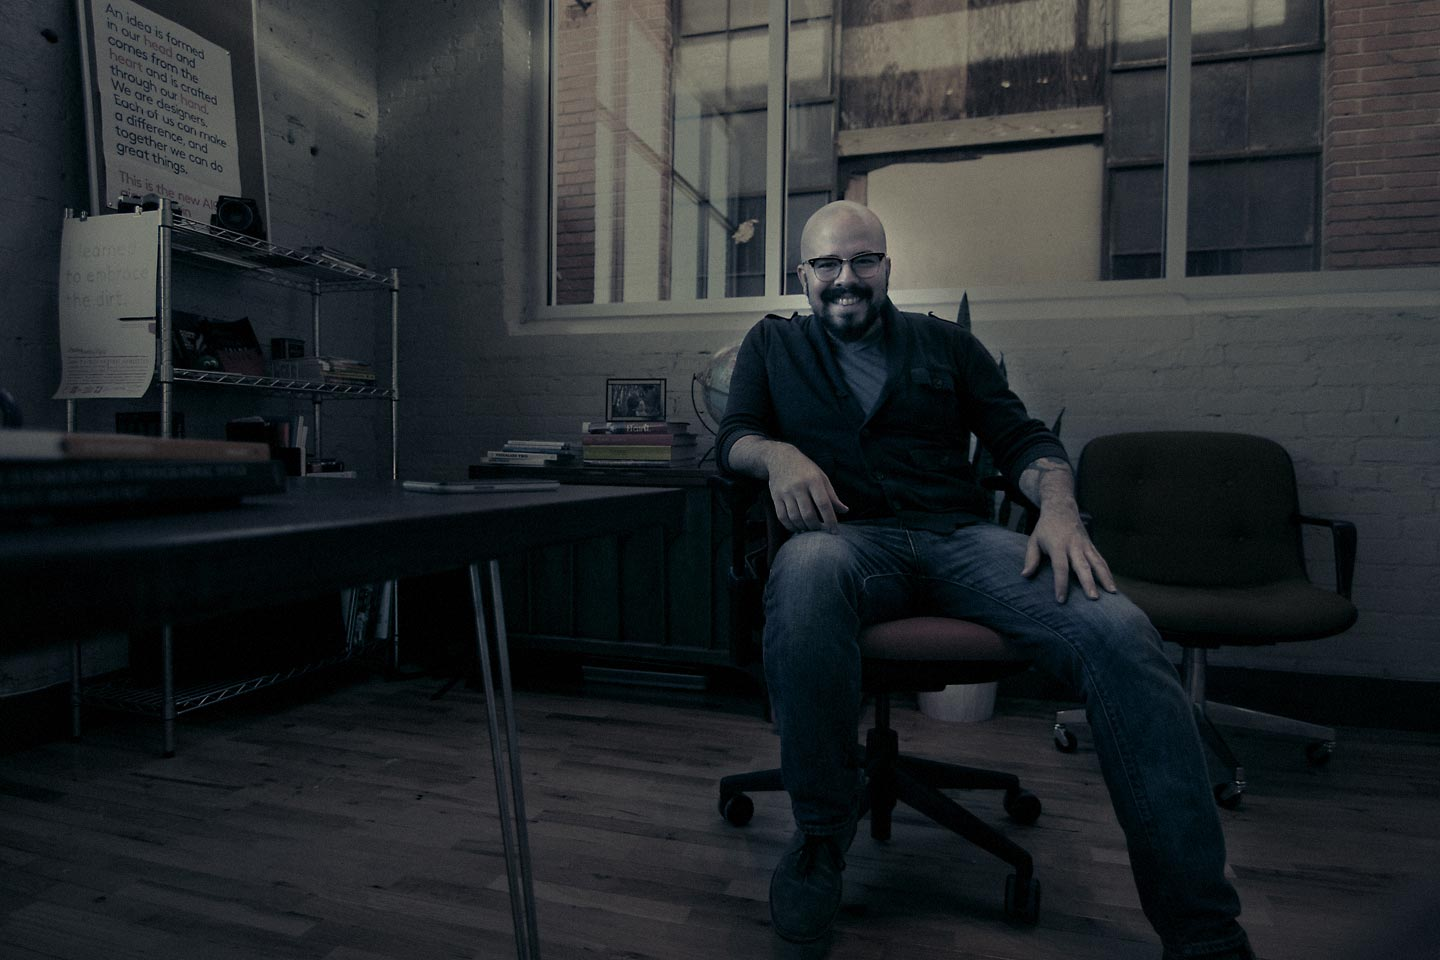
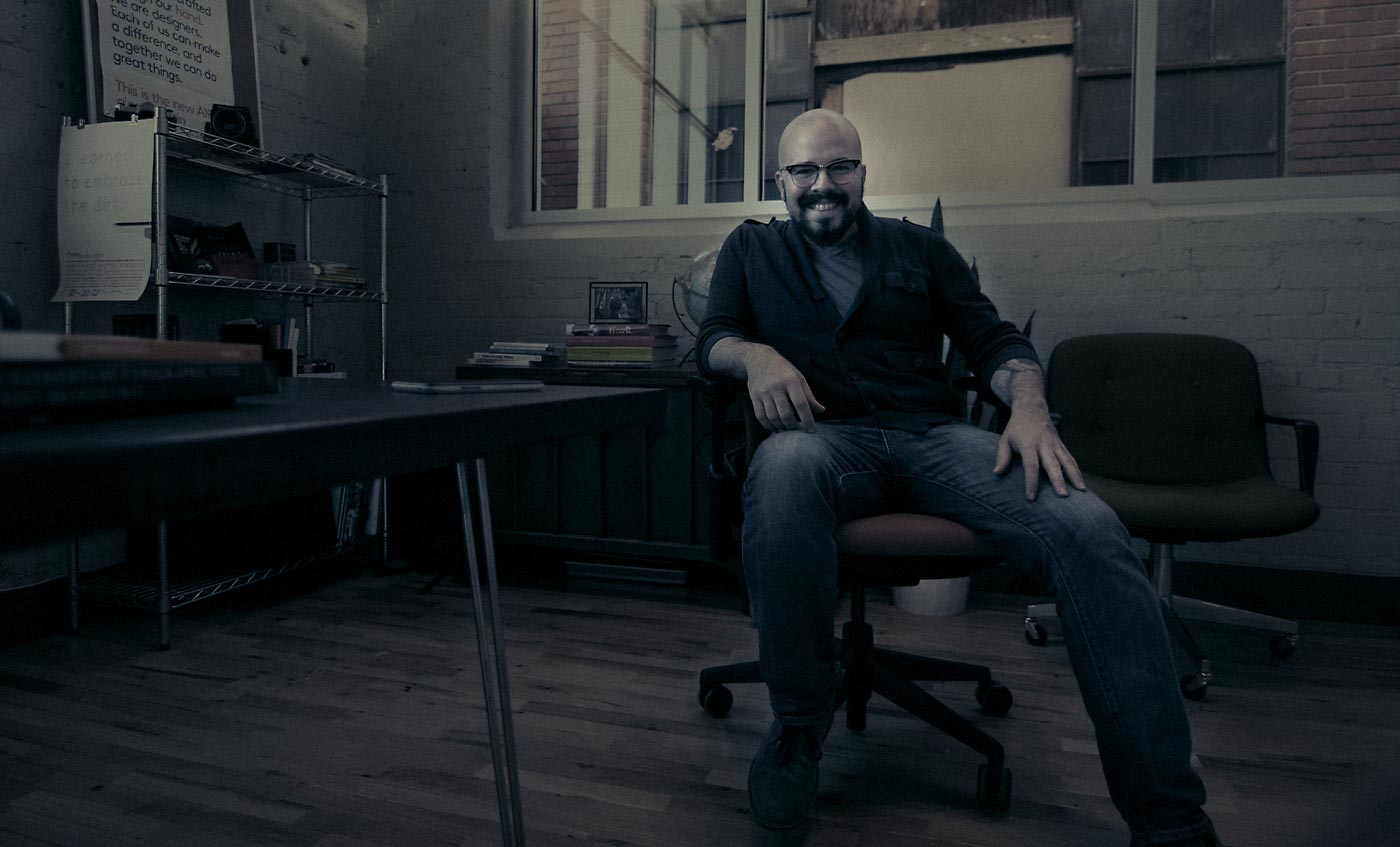
Improve portrait positioning.

diff --git a/public/stylesheets/screen.css b/public/stylesheets/screen.css
@@ -531,8 +531,8 @@ section.intro {
   font-size: 1.76rem;
   line-height: 25.2px;
   line-height: 2.52rem;
-  padding-top: 300px;
-  padding-top: 30rem;
+  padding-top: 230px;
+  padding-top: 23rem;
   -webkit-transition: background-position-y 0.35s ease, padding-top 0.35s ease;
   -moz-transition: background-position-y 0.35s ease, padding-top 0.35s ease;
   -o-transition: background-position-y 0.35s ease, padding-top 0.35s ease;
@@ -568,12 +568,16 @@ section.intro a:hover {
 }
 @media only screen and (min-width: 1023px) {
   section.intro {
-    background-position: center -80px;
     padding-top: 130px;
     padding-top: 13rem;
   }
 }
 @media only screen and (min-width: 1025px) {
+  section.intro {
+    background-position: center -30px;
+  }
+}
+@media only screen and (min-width: 1700px) {
   section.intro {
     background-position: center -100px;
   }

diff --git a/stylesheets/screen.sass b/stylesheets/screen.sass
@@ -244,16 +244,17 @@ section
     // background-attachment: fixed
     color: $cyan
     @include type-size(larger)
-    @include rempx(padding-top,300)
+    @include rempx(padding-top,230)
     @include transition(background-position-y 0.35s ease, padding-top 0.35s ease)
     p
       @include rempx(max-width,420)
     a
       @include basic-link(#fff,#fff,#fff)
     @include tablet-landscape-and-up
-      background-position: center -80px
       @include rempx(padding-top,130)
     @include desktop-and-up
+      background-position: center -30px
+    @include monster
       background-position: center -100px
   &.philosophy
     @include type-size(larger)
